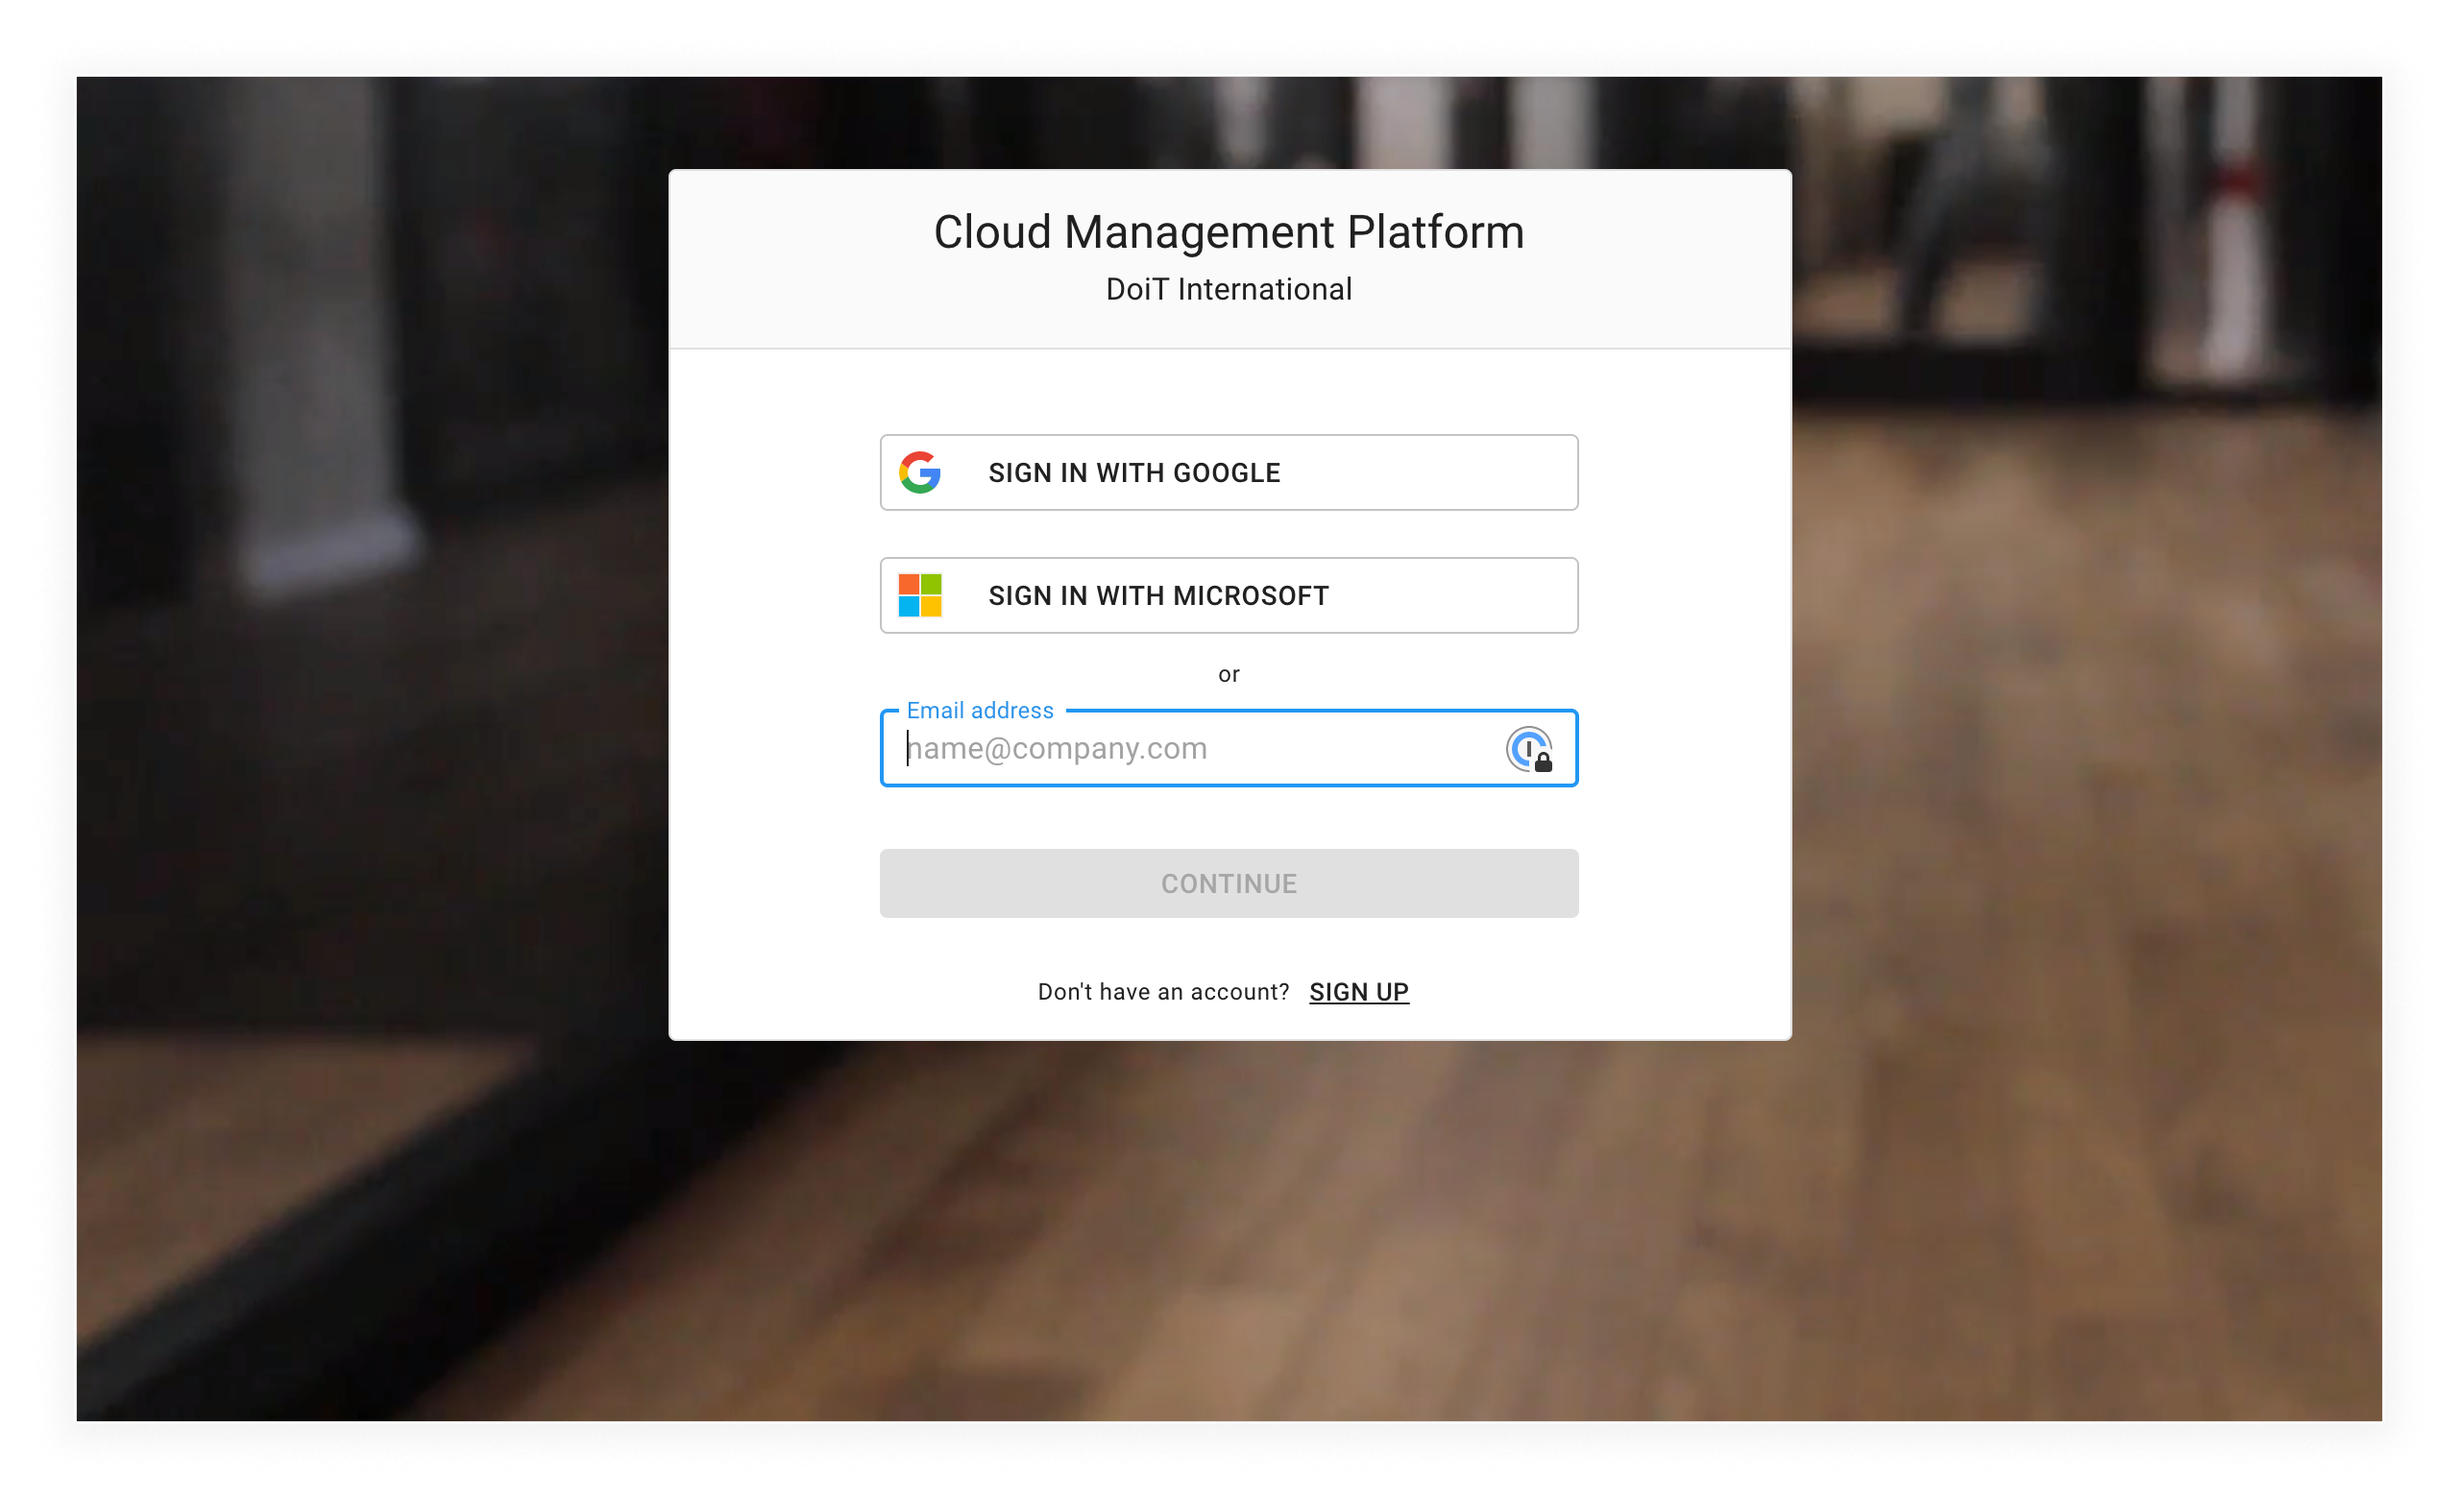
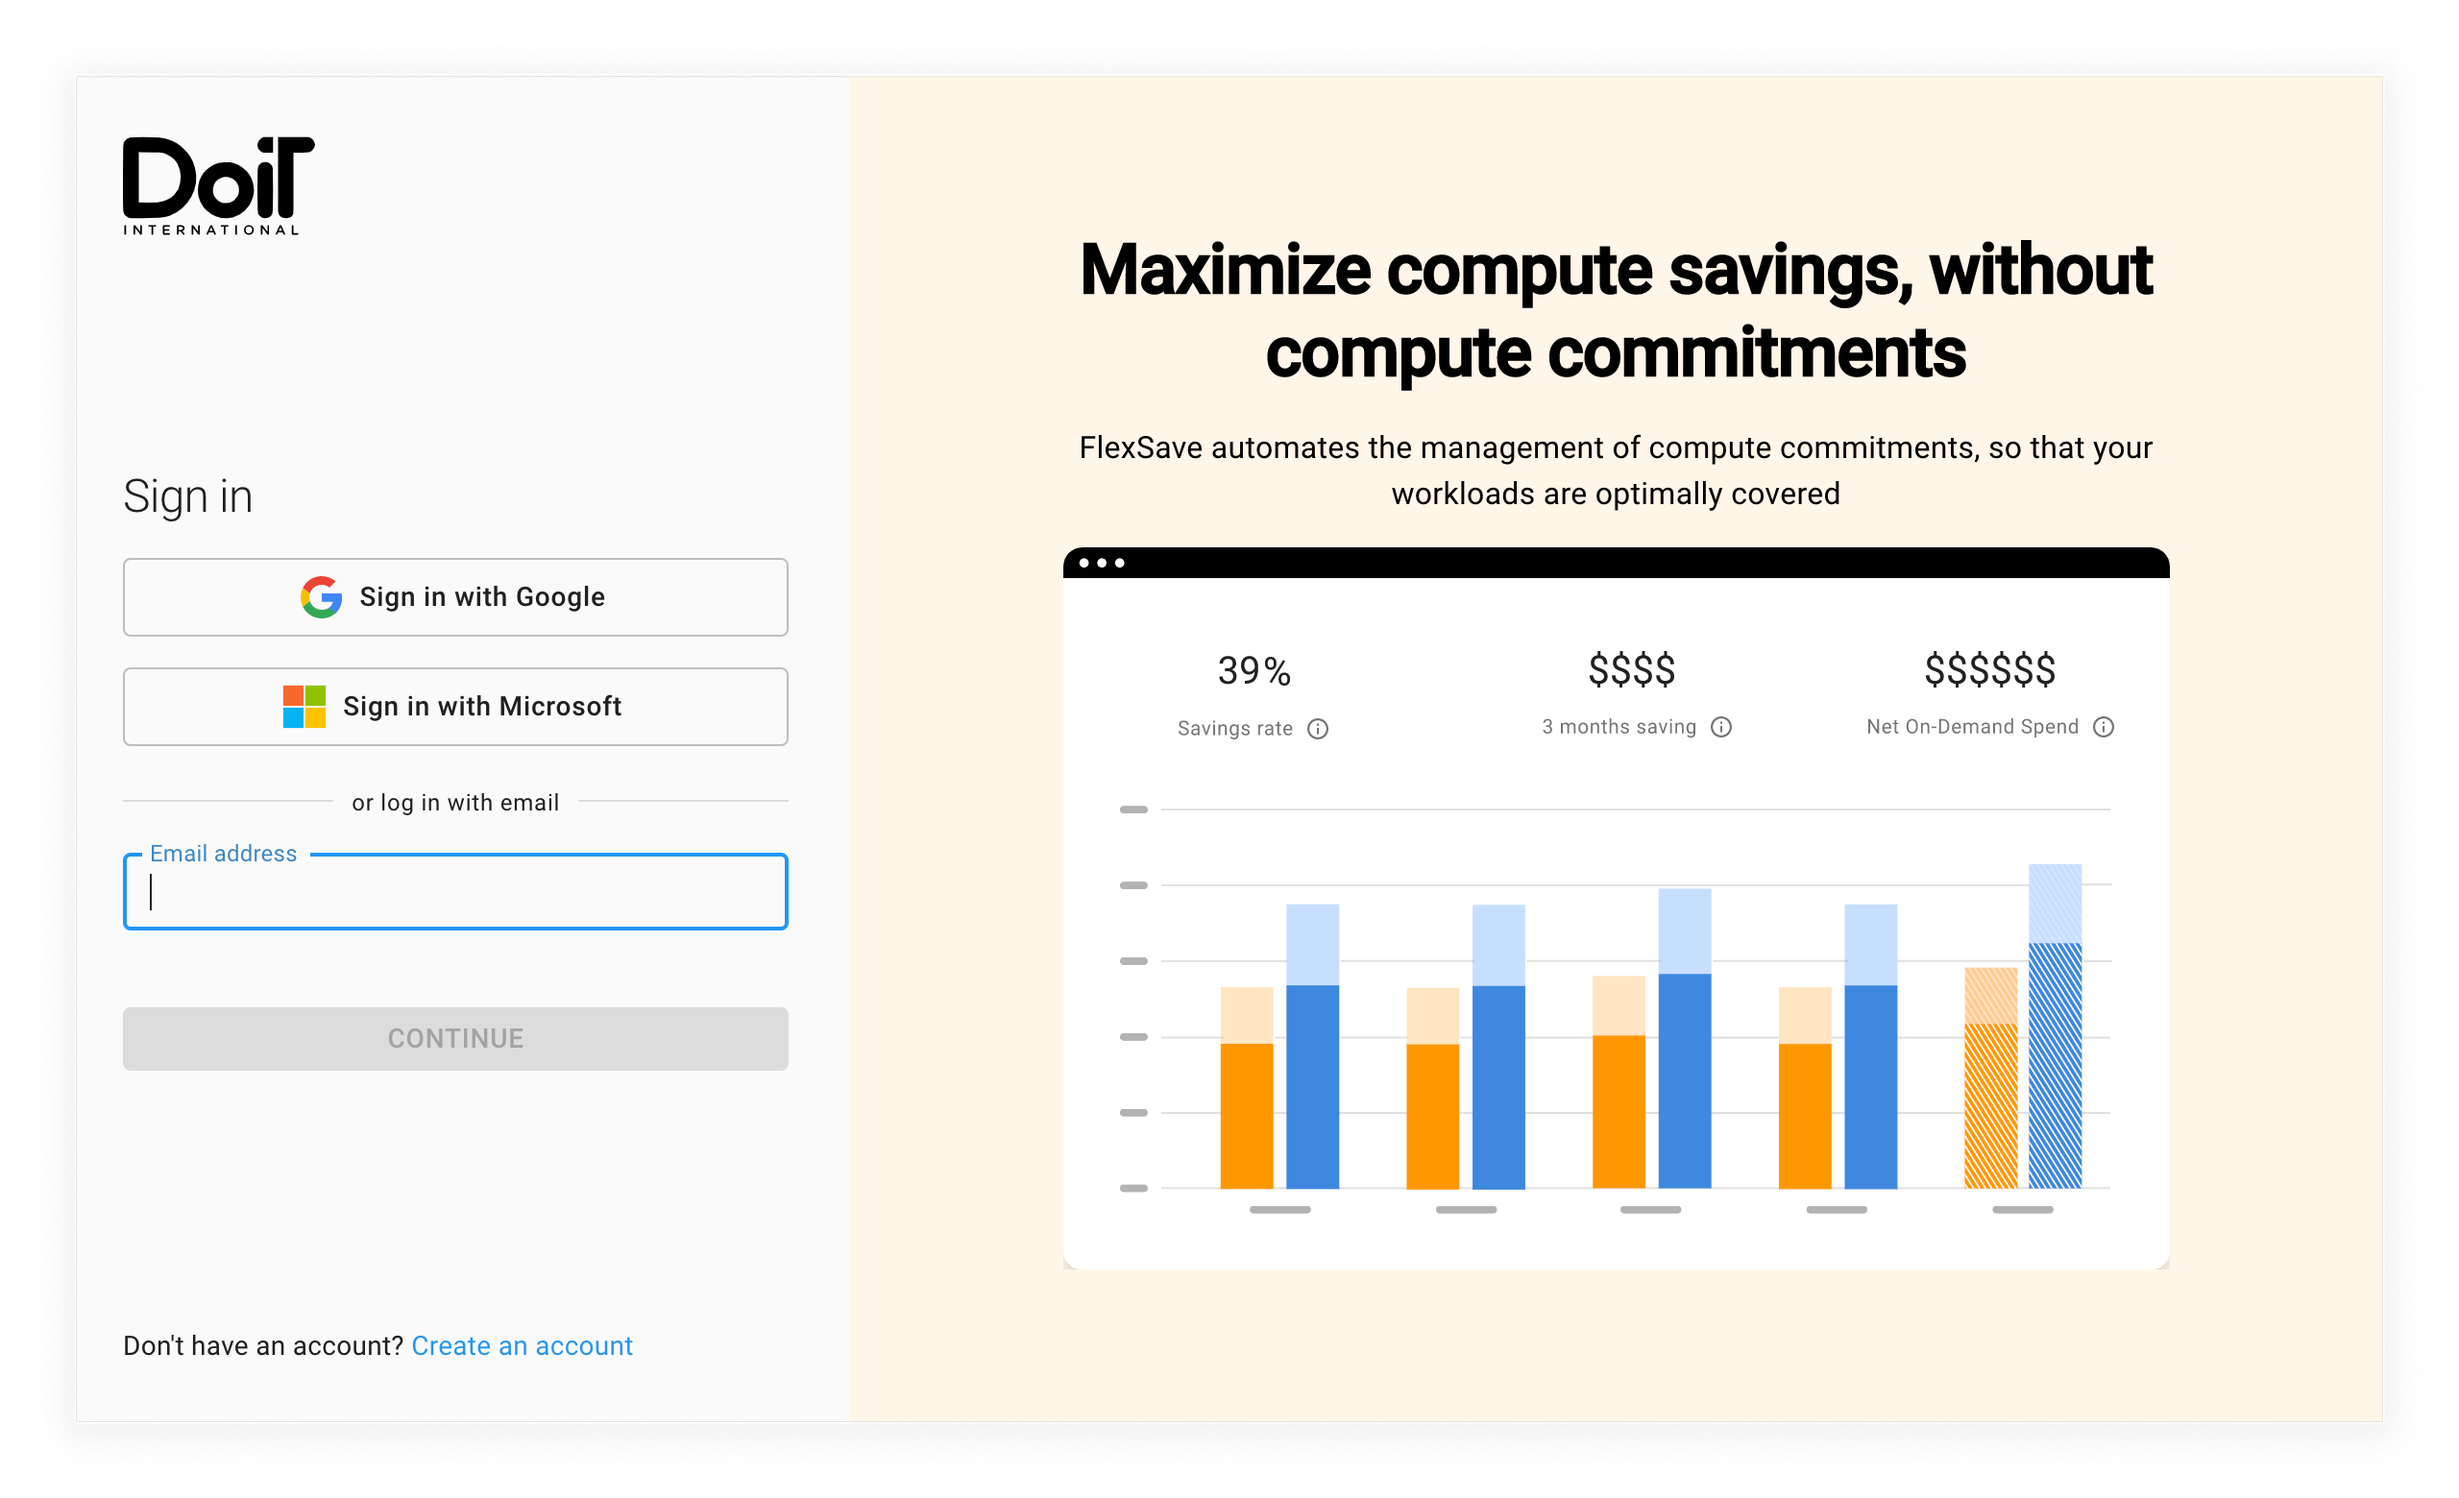
Update the log-in page screenshot
The log-in page was recently redesigned. This commit updates the screenshot to match.

Additionally, I have removed the table of contents. With the addition of the FAQ, this no longer worked as a list of log-in methods. GitBook provides a TOC on the right-hand side of the page that is sufficient for navigation.

diff --git a/gitbook/cmp/general/log-in.md b/gitbook/cmp/general/log-in.md
@@ -4,18 +4,7 @@ description: How to log in and access the Cloud Management Platform (CMP)
 
 # Log in to the CMP
 
-You can log in to the DoiT International _Cloud Management Platform_ (CMP) using one of the following methods:
-
-- [Log-in methods](#log-in-methods)
-  - [Customers](#customers)
-    - [Use an existing Google Workspace account](#use-an-existing-google-workspace-account)
-    - [Use an existing Microsoft Office 365 account](#use-an-existing-microsoft-office-365-account)
-    - [Use an email address and password](#use-an-email-address-and-password)
-  - [Partners](#partners)
-    - [Use your Amazon or Google email address](#use-your-amazon-or-google-email-address)
-- [FAQ](#faq)
-  - [Can I limit access to a single log-in method?](#can-i-limit-access-to-a-single-log-in-method)
-  - [Can I use my own _Single Sign-On_ (SSO) provider?](#can-i-use-my-own-single-sign-on-sso-provider)
+You can log in to the DoiT International _Cloud Management Platform_ (CMP) using one of the methods detailed below.
 
 To log in, visit the [log-in screen](https://app.doit-intl.com/login):
 
